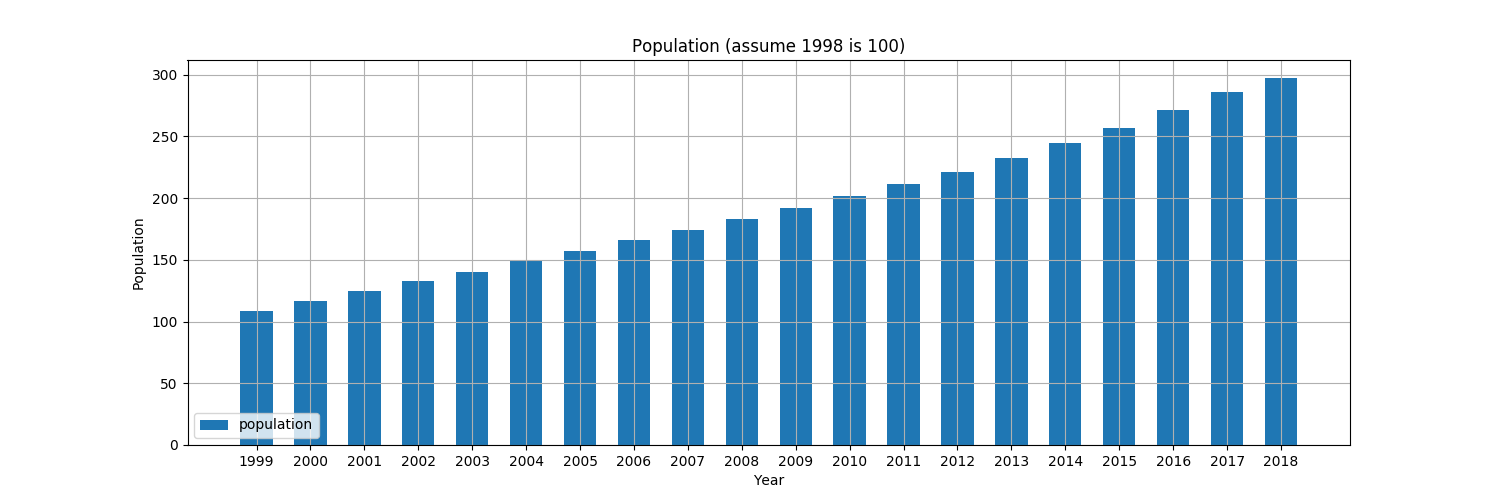
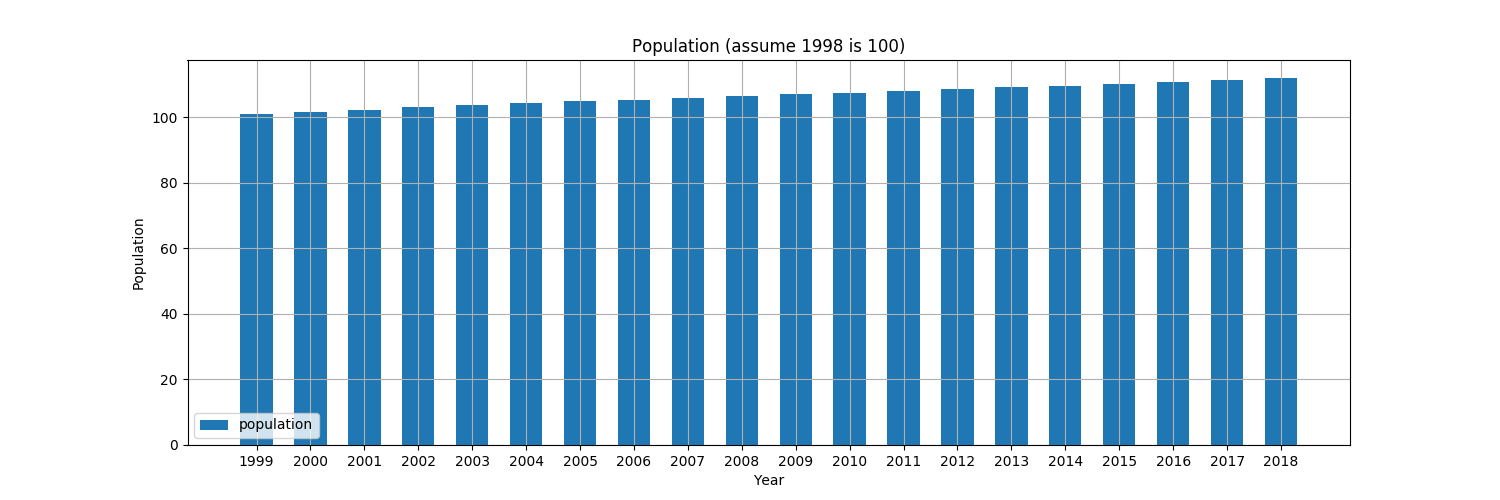
change an error

diff --git a/create_fig.py b/create_fig.py
@@ -80,7 +80,7 @@ def drawHW2(d,result):
     plt.plot(locals()['year'],locals()['increase'],'*-',label = 'Increase')
     plt.xticks(locals()['year'].astype('int').tolist())
     plt.xlabel('Year')
-    plt.ylabel('Ratio/%')
+    plt.ylabel('Ratio/0.001')
     plt.title('Population change ratio')
     plt.legend()
     plt.grid()
@@ -88,7 +88,7 @@ def drawHW2(d,result):
     plt.show()
 
     c1998 = 100
-    popu = (1+locals()['increase']/100)
+    popu = (1+locals()['increase']/1000)
     inc = np.multiply.accumulate(popu[::-1])[::-1]
     popu = c1998*inc
     fig = plt.figure(figsize = (15,5))
